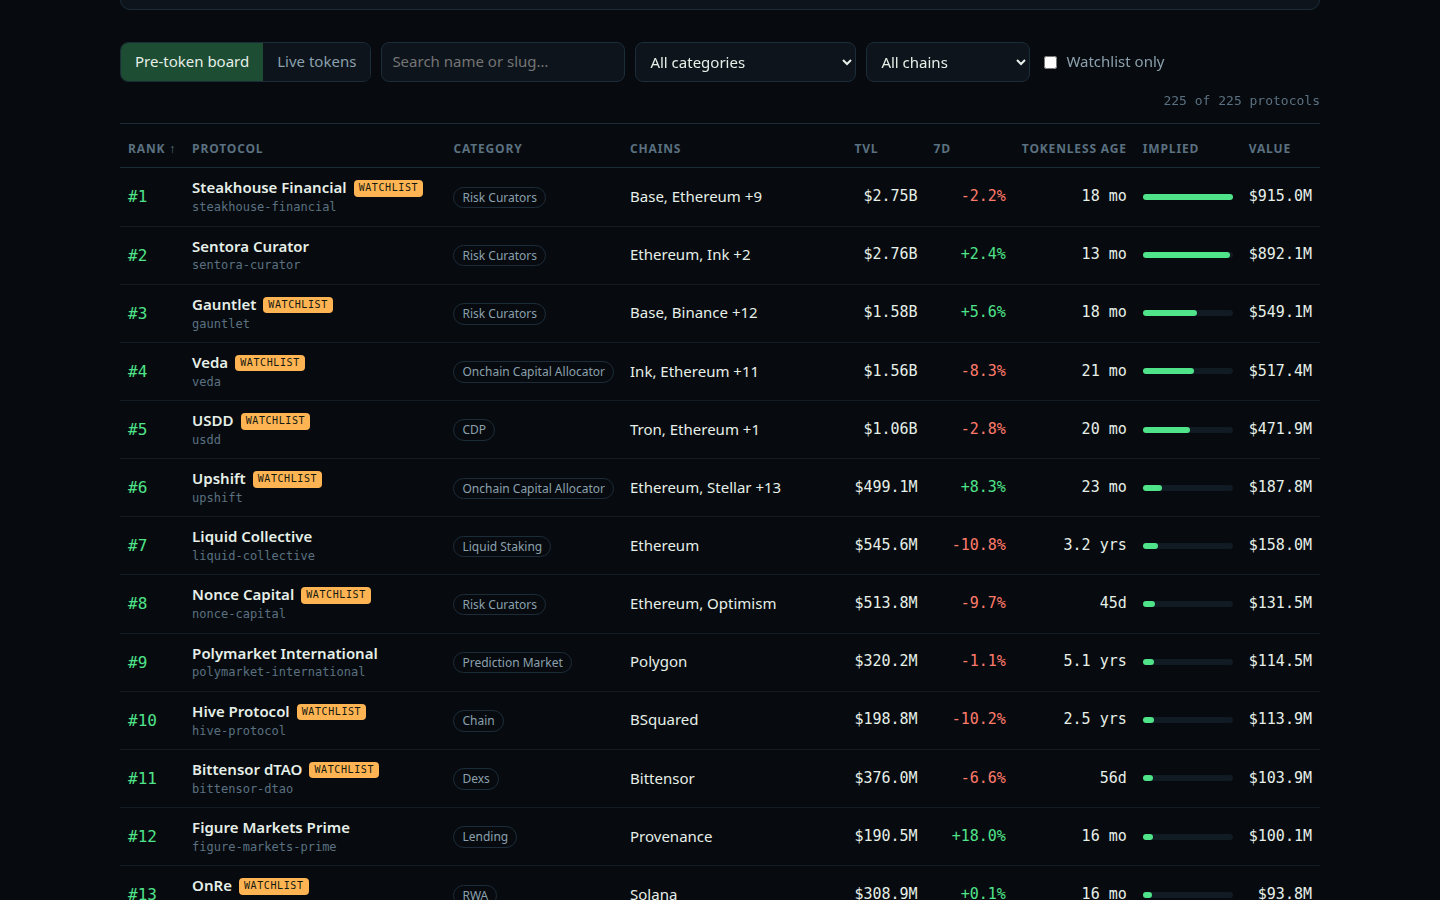
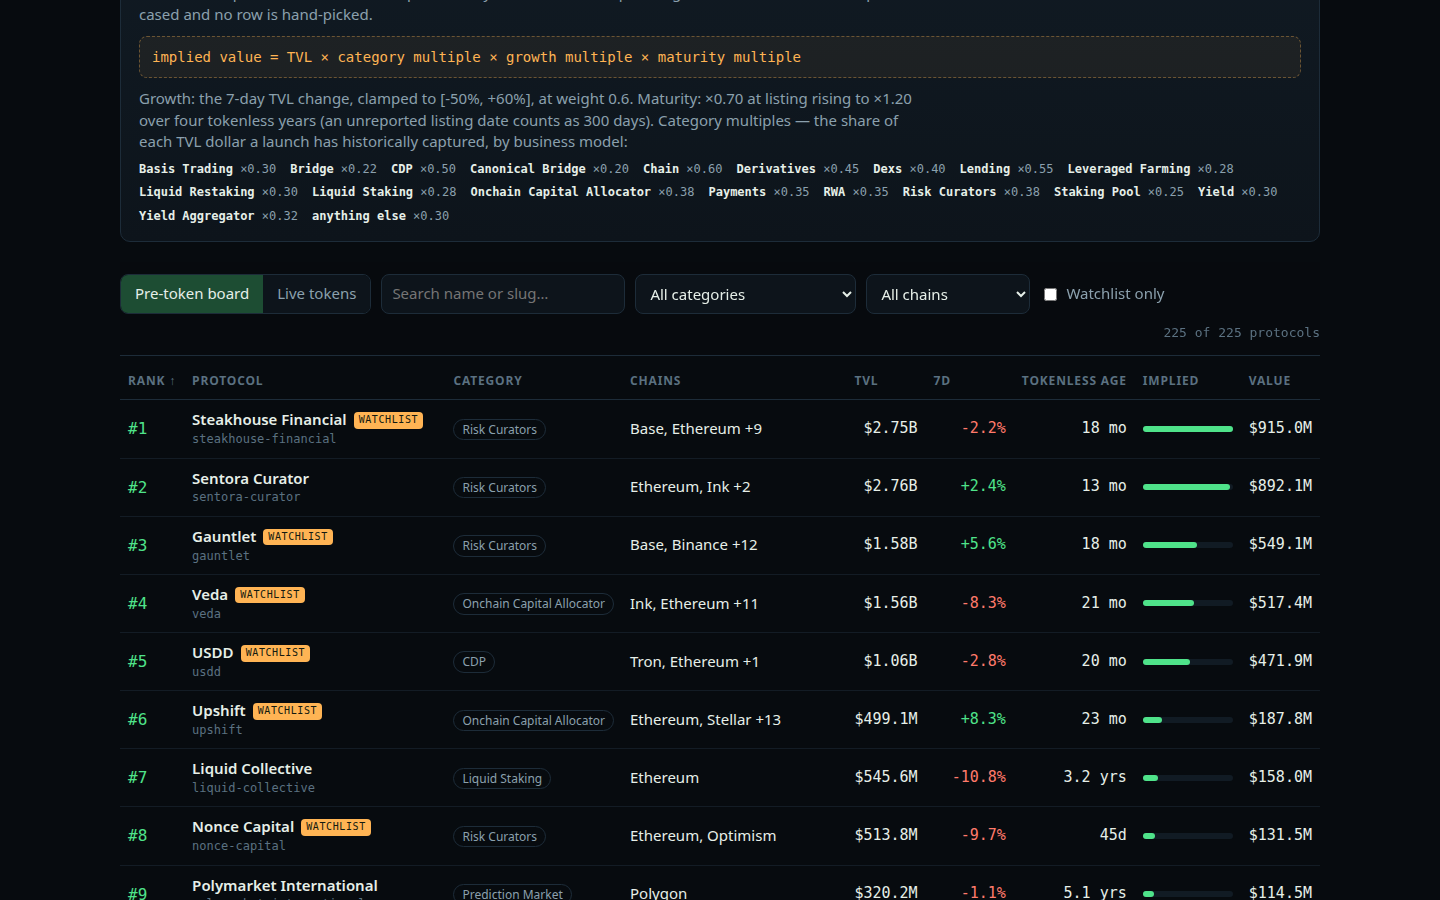
Detail view: season budget line and category standing, reframed screenshots
Two separate dashboard improvements so the detail view answers the cost and
context questions a judge asks of a farm plan:

- Farm plan card gains a Season budget summary, derived from the same helpers
  the steps use (capitalBand for working capital, gasText for per-transaction
  gas on the home chain, seasonBand for the season length, with the
  transaction count following each playbook's own pace). Stated plainly as a
  planning estimate at snapshot prices, before swap or LP fees.
- The protocol panel gains category context: 'In its category' ranks the
  protocol among same-category board rows by implied value, plus a board
  percentile line, both computed from RADAR.rows.
- app.css styles the new season-budget line to match the scope theme.
- Screenshots re-rendered: the board shot now frames the model strip
  (formula and category multiples) above eight-plus table rows, the detail
  shot shows Bittensor dTAO including the new Season budget line, and the
  filtered shot keeps the Dexs category filter.

diff --git a/dashboard/app.js b/dashboard/app.js
@@ -338,6 +338,11 @@
           kv('Tracked since', row.listed_at || 'unreported'),
           kv('Tokenless age', ageText(row.age_days)),
           kv('Token', 'none recorded on DefiLlama'),
+          /* Category standing: RADAR.rows is already ranked by implied value, so filtering
+             it to this row's category keeps that order — the position in the filtered list
+             is the protocol's rank inside its own category. */
+          kv('In its category', '#' + (RADAR.rows.filter(function (r) { return (r.category || 'Other') === (row.category || 'Other'); }).findIndex(function (r) { return r.slug === row.slug; }) + 1) + ' of ' + RADAR.rows.filter(function (r) { return (r.category || 'Other') === (row.category || 'Other'); }).length + ' ' + (row.category || 'Other') + ' by implied value'),
+          kv('Board percentile', String(Math.ceil(100 * (RADAR.board_size - row.rank + 1) / RADAR.board_size)) + 'th percentile by implied value'),
           h('h3', { text: 'Its implied value', style: 'margin-top:18px' }),
           h('div', { class: 'implied-big', text: money(row.implied_value_usd) }),
           multRow('TVL base', money(row.tvl_usd), 100, null),
@@ -348,6 +353,38 @@
         h('section', { class: 'card' }, [
           h('h3', { text: 'Farm plan · ' + (row.category || 'general') + ' playbook' }),
           h('ol', { class: 'steps' }, steps.map(function (s) { return h('li', { text: s }); })),
+          /* Season budget: one planning line for the whole season, derived from the same
+             helpers the steps use — capitalBand for the working capital, gasText for the
+             per-transaction gas on the home chain, seasonBand for the season's length.
+             The transaction count follows the playbook's own pace (swaps or sessions a
+             few times a week for dex/perps, a weekly action plus setup for the rest,
+             a mostly-held position for rwa), plus two setup transactions. */
+          h('p', { class: 'note season-budget' }, [
+            h('strong', { text: 'Season budget: ' }),
+            txt((function () {
+              var chain = homeChain(row);
+              var gasNums = gasText(chain).match(/\$([0-9.]+)-\$([0-9.]+)/);
+              var gasLo = gasNums ? parseFloat(gasNums[1]) : 0.1;
+              var gasHi = gasNums ? parseFloat(gasNums[2]) : 2;
+              var season = seasonBand(row.age_days);
+              var wk = season.match(/(\d+)-(\d+)/);
+              var wkLo = wk ? parseInt(wk[1], 10) : 4;
+              var wkHi = wk ? parseInt(wk[2], 10) : 8;
+              var book = playbookFor(row.category);
+              var perWeek = book === 'dex' || book === 'perps' ? 3 : book === 'rwa' ? 1 : 2;
+              var txLo = 2 + wkLo * perWeek;
+              var txHi = 2 + wkHi * perWeek;
+              function gasMoney(v) {
+                if (v >= 100) return '$' + String(Math.round(v / 10) * 10);
+                if (v >= 10) return '$' + String(Math.round(v));
+                return '$' + v.toFixed(2).replace(/\.?0+$/, '');
+              }
+              return capitalBand(row.tvl_usd) + ' working capital, about ' +
+                gasMoney(gasLo * txLo) + '-' + gasMoney(gasHi * txHi) + ' total gas over a ' +
+                season + ' season (' + txLo + '-' + txHi + ' transactions at ' + gasText(chain) +
+                '). A planning estimate at snapshot prices, before swap or LP fees.';
+            })()),
+          ]),
           h('p', { class: 'note', text: 'Costs and times are the plan\u2019s own estimates at snapshot prices. An implied value is this board\u2019s model claim, not a promise that a token will be issued.' }),
         ]),
       ]),

diff --git a/dashboard/app.css b/dashboard/app.css
@@ -376,6 +376,18 @@ ol.steps li::marker {
   color: var(--amber);
   font-family: var(--mono);
 }
+.season-budget {
+  border-top: 1px dashed rgba(29, 44, 57, 0.9);
+  padding-top: 10px;
+  margin: 12px 0 8px;
+}
+.season-budget strong {
+  color: var(--amber);
+  font-family: var(--mono);
+  font-size: 12px;
+  letter-spacing: 0.06em;
+  text-transform: uppercase;
+}
 
 /* Colophon and the narrow-screen fallback. */
 footer.colophon {
